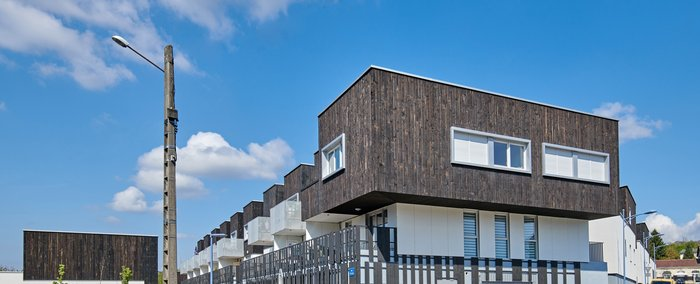
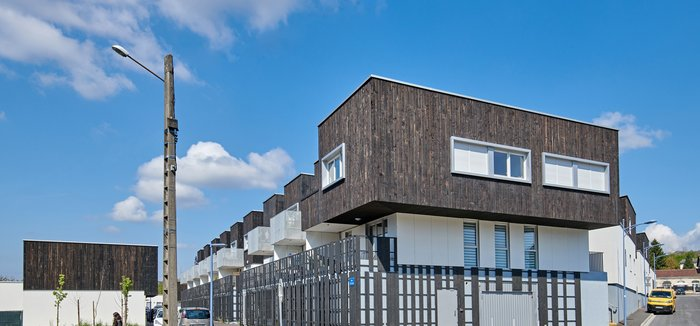
Merge the right column back into a single left sidebar
Fold the narrative text and plan/coupe images back into the left
sidebar (now 420px, up from 300px), dropping the separate narrative
column entirely. Photos shift right to fill the reclaimed width.

Switch to a smaller, more compact typography throughout the sidebar
(labels, body text, title, back-link, plan spacing all reduced), and
bring the title/back-link noticeably closer to the top of the page.

Cap the sidebar at viewport height with a hidden scrollbar (same
pattern used elsewhere on the site) so long sidebars never scroll
their top content up behind the fixed header.

Crop Crouy's second photo a little less tightly, keeping more sky
and street context than the earlier crop.

Claude-Session: https://claude.ai/code/session_01HokbPAEQRy36d6UYd3ZJJY

diff --git a/css/style.css b/css/style.css
@@ -399,10 +399,10 @@ body.hover-equipements .project-tile[data-group="logements"] {
 
 .project-layout {
   display: grid;
-  grid-template-columns: 300px 1fr 460px;
+  grid-template-columns: 420px 1fr;
   grid-template-areas:
-    "sidebar photos narrative"
-    "sidebar next narrative";
+    "sidebar photos"
+    "sidebar next";
   align-items: start;
   padding-top: 28px;
 }
@@ -410,42 +410,36 @@ body.hover-equipements .project-tile[data-group="logements"] {
 .project-sidebar {
   grid-area: sidebar;
   position: sticky;
-  top: 100px;
+  top: 28px;
+  max-height: calc(100vh - 48px);
+  overflow-y: auto;
+  scrollbar-width: none;
+  -ms-overflow-style: none;
   display: flex;
   flex-direction: column;
-  padding: 72px 32px 60px 40px;
+  padding: 52px 40px 60px 40px;
 }
 
-.project-narrative {
-  grid-area: narrative;
-  display: flex;
-  flex-direction: column;
-  justify-content: center;
-  height: calc(100vh - 28px);
-  padding: 0px 40px 60px 32px;
-  box-sizing: border-box;
-}
-
-.project-narrative .project-plan-figure:first-child {
-  margin-top: 0;
+.project-sidebar::-webkit-scrollbar {
+  display: none;
 }
 
 .project-back {
   display: inline-block;
-  font-size: 0.76rem;
+  font-size: 0.72rem;
   letter-spacing: 0.12em;
   text-transform: uppercase;
   color: var(--stone);
   margin-top: -4px;
-  margin-bottom: 24px;
+  margin-bottom: 20px;
 }
 .project-back:hover { color: var(--black); }
 
 .project-title {
-  font-size: clamp(1.7rem, 2.4vw, 2.4rem);
+  font-size: clamp(1.5rem, 2vw, 2.1rem);
   font-weight: 300;
   line-height: 1.15;
-  margin-bottom: 32px;
+  margin-bottom: 26px;
 }
 
 .project-title--mobile {
@@ -481,12 +475,12 @@ body.hover-equipements .project-tile[data-group="logements"] {
 .project-description {
   display: flex;
   flex-direction: column;
-  gap: 17px;
+  gap: 14px;
 }
 
 .project-description-section h3 {
-  font-size: 0.68rem;
-  letter-spacing: 0.03em;
+  font-size: 0.62rem;
+  letter-spacing: 0.04em;
   text-transform: uppercase;
   color: var(--stone);
   font-weight: 400;
@@ -495,48 +489,29 @@ body.hover-equipements .project-tile[data-group="logements"] {
 
 .project-description-section p {
   margin: 0;
-  font-size: 0.9rem;
-  line-height: 1.55;
+  font-size: 0.8rem;
+  line-height: 1.5;
   color: var(--charcoal);
 }
 
-.project-narrative {
-  --narrative-scale: 1;
-}
-
-.project-narrative .project-description {
-  gap: calc(17px * var(--narrative-scale));
-}
-
-.project-narrative .project-description-section h3 {
-  font-size: calc(0.6rem * var(--narrative-scale));
-  letter-spacing: 0.06em;
-}
-
-.project-narrative .project-description-section p {
-  font-size: calc(0.76rem * var(--narrative-scale));
-  line-height: 1.6;
-}
-
 .project-plan-figure {
-  margin: calc(40px * var(--narrative-scale, 1)) 0 0 0;
+  margin: 32px 0 0 0;
 }
 
 .project-plan-figure + .project-plan-figure {
-  margin-top: calc(24px * var(--narrative-scale, 1));
+  margin-top: 20px;
 }
 
 .project-plan-label {
-  font-size: calc(0.64rem * var(--narrative-scale, 1));
+  font-size: 0.6rem;
   letter-spacing: 0.08em;
   text-transform: uppercase;
   color: var(--stone);
-  margin-bottom: calc(8px * var(--narrative-scale, 1));
+  margin-bottom: 6px;
 }
 
 .project-plan {
-  width: calc(100% * var(--narrative-scale, 1));
-  margin: 0 auto;
+  width: 100%;
   background: var(--cream);
   cursor: zoom-in;
   transition: opacity 0.25s ease;
@@ -721,27 +696,16 @@ body.hover-equipements .project-tile[data-group="logements"] {
     margin: 0 22px 22px;
   }
   .project-photos { order: 1; padding: 0 0; gap: 3mm; }
-  .project-sidebar,
-  .project-narrative {
-    max-height: none;
-    overflow-y: visible;
-  }
   .project-sidebar {
     order: 2;
     position: static;
     width: 100%;
-    padding: 0 22px 20px;
-  }
-  .project-sidebar .project-title { display: none; }
-  .project-narrative {
-    order: 3;
-    position: static;
-    width: 100%;
-    height: auto;
-    justify-content: flex-start;
+    max-height: none;
+    overflow-y: visible;
     padding: 0 22px 40px;
   }
-  .project-next { order: 4; margin-top: 0; padding: 50px 22px 70px; }
+  .project-sidebar .project-title { display: none; }
+  .project-next { order: 3; margin-top: 0; padding: 50px 22px 70px; }
   .project-back { margin-bottom: 24px; }
   .plan-lightbox { padding: 24px; }
 }

diff --git a/js/main.js b/js/main.js
@@ -143,29 +143,24 @@ function renderProjectDetail() {
 
   const photos = projectPhotos(project);
 
-  const META_FIELDS = [
+  const DESCRIPTION_FIELDS = [
     { key: "lieu", heading: "lieu" },
     { key: "moe", heading: "maîtrise d'œuvre" },
+    { key: "programme", heading: "programme" },
     { key: "surface", heading: "surface" },
     { key: "cout", heading: "coût de construction" },
     { key: "certification", heading: "certification environnementale" },
-  ];
-  const NARRATIVE_FIELDS = [
-    { key: "programme", heading: "programme" },
     { key: "contexte", heading: "contexte" },
   ];
-  const fieldHTML = (field) => `
+  const descriptionHTML = DESCRIPTION_FIELDS
+    .filter((field) => project.description && project.description[field.key])
+    .map(
+      (field) => `
       <div class="project-description-section">
         <h3>${field.heading}</h3>
         <p>${project.description[field.key]}</p>
-      </div>`;
-  const descriptionHTML = META_FIELDS
-    .filter((field) => project.description && project.description[field.key])
-    .map(fieldHTML)
-    .join("");
-  const narrativeHTML = NARRATIVE_FIELDS
-    .filter((field) => project.description && project.description[field.key])
-    .map(fieldHTML)
+      </div>`
+    )
     .join("");
 
   const plans = project.plans || (project.plan ? [{ file: "plan.jpg" }] : []);
@@ -185,6 +180,7 @@ function renderProjectDetail() {
       <a class="project-back js-transition" href="projects.html">&larr; Projets</a>
       <h1 class="project-title">${project.title}</h1>
       ${descriptionHTML ? `<div class="project-description">${descriptionHTML}</div>` : ""}
+      ${planHTML}
     </aside>
     <div class="project-photos">
       ${photos
@@ -200,49 +196,9 @@ function renderProjectDetail() {
       <span class="project-next-label">Projet suivant</span>
       <span class="project-next-title">${nextProject.title}</span>
     </a>
-    ${narrativeHTML || planHTML ? `<aside class="project-narrative">${narrativeHTML ? `<div class="project-description">${narrativeHTML}</div>` : ""}${planHTML}</aside>` : ""}
   `;
 
   initPlanLightbox();
-  initNarrativeFit();
-}
-
-// ---------- Narrative column auto-fit ----------
-function initNarrativeFit() {
-  const narrative = document.querySelector(".project-narrative");
-  if (!narrative) return;
-
-  const fit = () => {
-    if (window.innerWidth <= 900) {
-      narrative.style.setProperty("--narrative-scale", 1);
-      narrative.style.height = "";
-      narrative.style.justifyContent = "";
-      return;
-    }
-    const target = window.innerHeight - 28;
-    narrative.style.height = "auto";
-    narrative.style.justifyContent = "flex-start";
-    let scale = 1;
-    narrative.style.setProperty("--narrative-scale", scale);
-    while (narrative.scrollHeight > target && scale > 0.6) {
-      scale = Math.round((scale - 0.02) * 100) / 100;
-      narrative.style.setProperty("--narrative-scale", scale);
-    }
-    narrative.style.height = "";
-    narrative.style.justifyContent = "";
-  };
-
-  if (document.readyState === "complete") {
-    fit();
-  } else {
-    window.addEventListener("load", fit);
-  }
-
-  let resizeTimer;
-  window.addEventListener("resize", () => {
-    clearTimeout(resizeTimer);
-    resizeTimer = setTimeout(fit, 150);
-  });
 }
 
 // ---------- Project plan lightbox ----------
